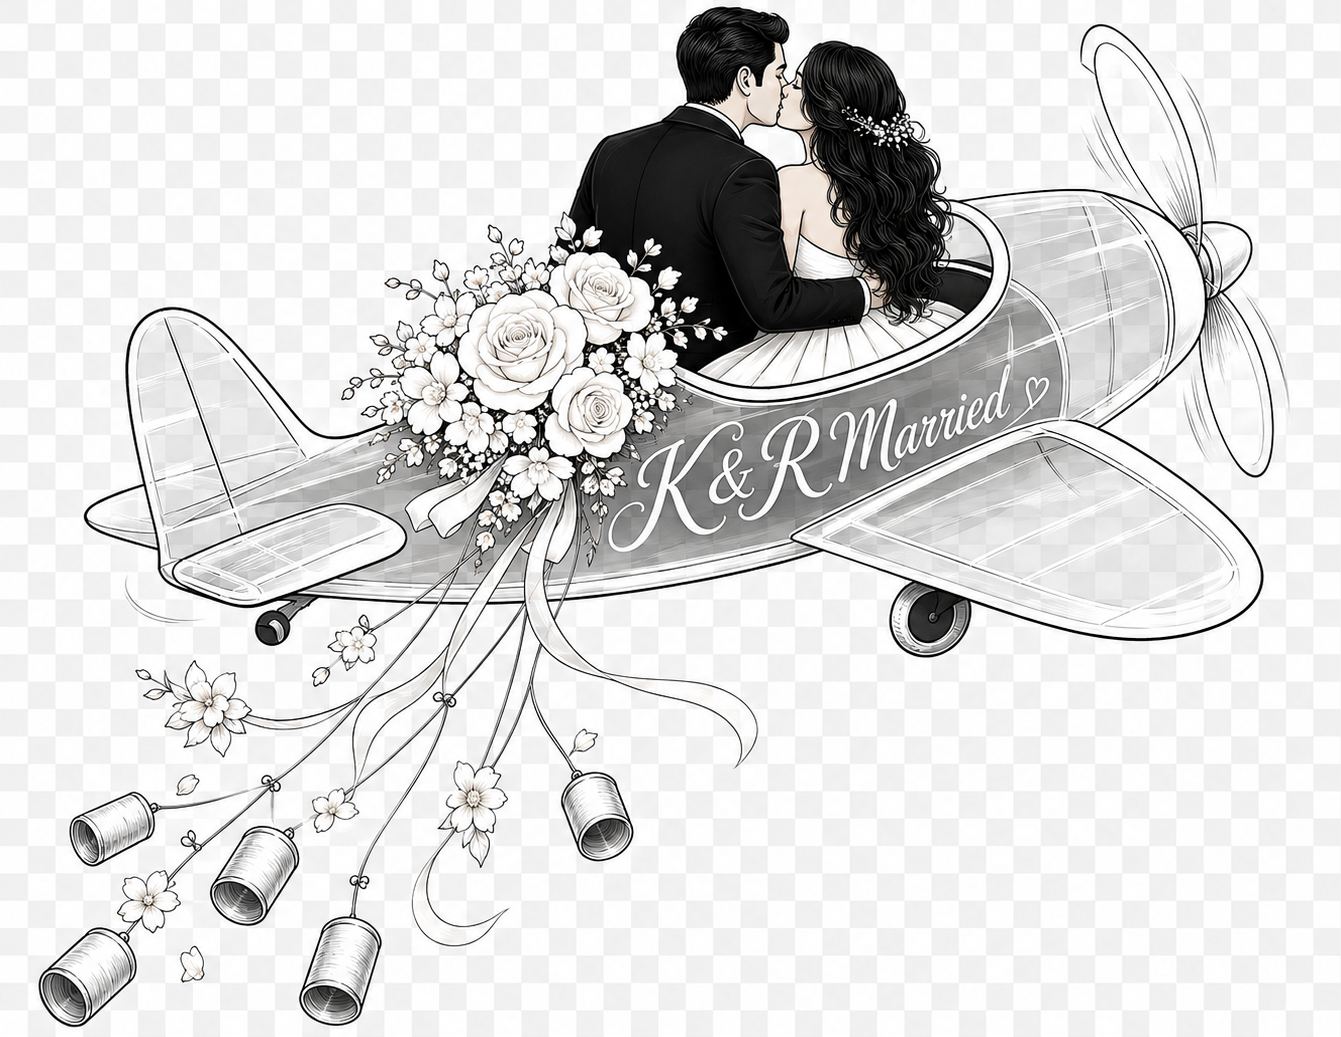
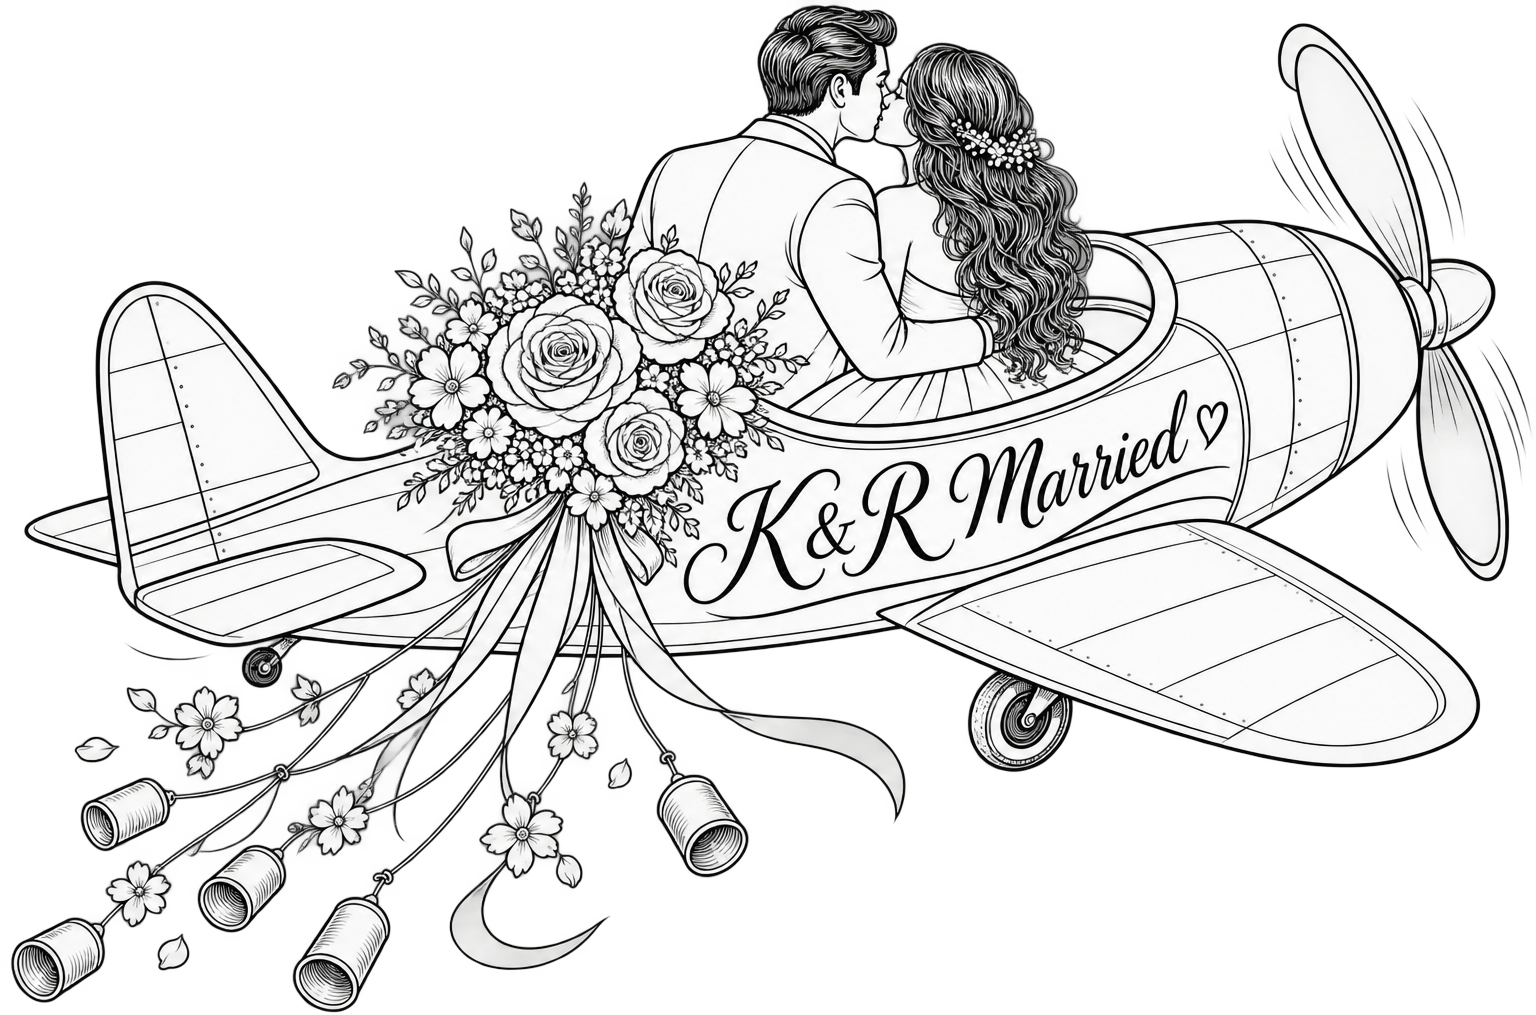
10

diff --git a/index.html b/index.html
@@ -11,7 +11,7 @@
     <meta name="description"
           content="Karla & Ricardo | Nuestra Boda">
 
-    <title>Karla & Ricardo | Nuestra Boda</title>
+    <title>Karla & Ricardo ♥|</title>
 
     <link rel="icon" type="image/png" href="img/favicon.png">
 
